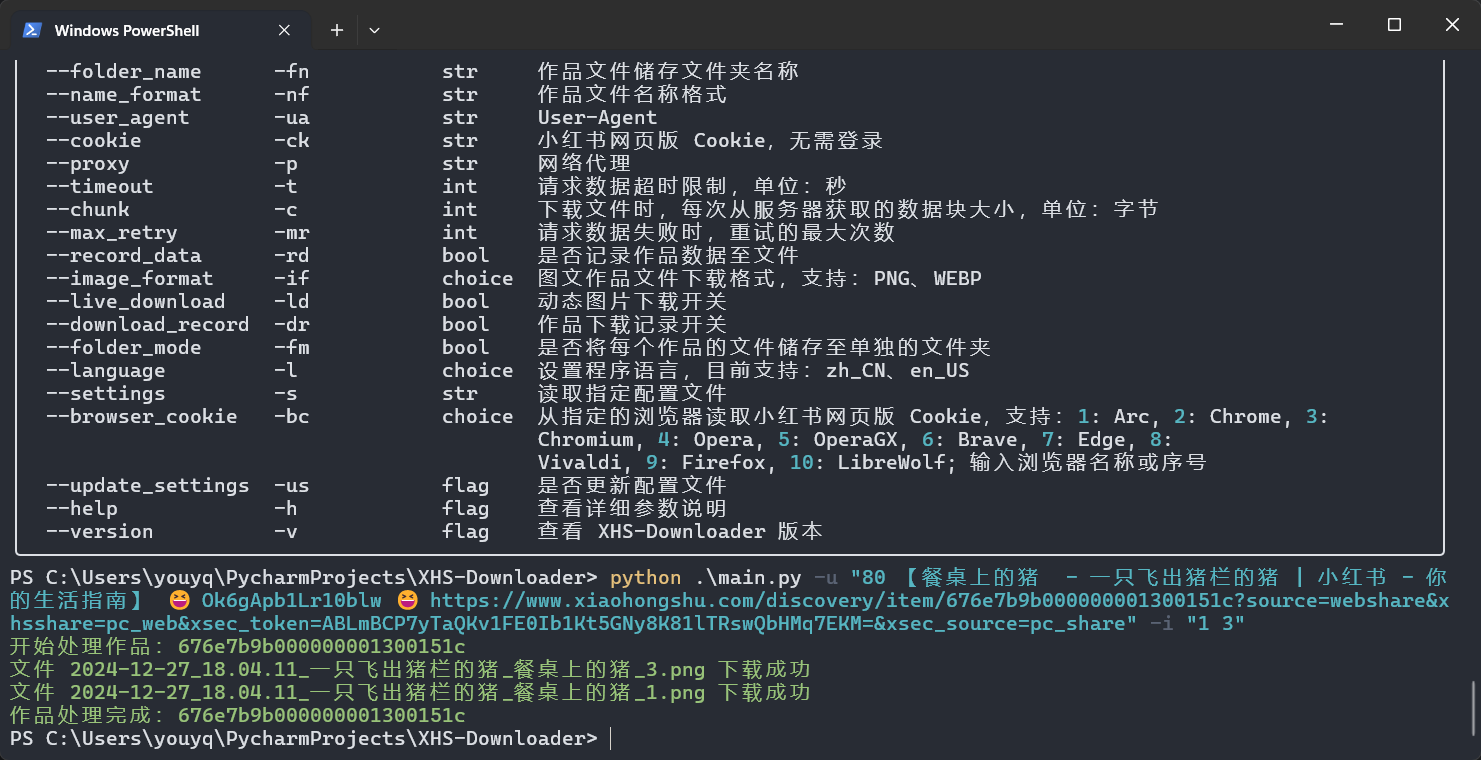
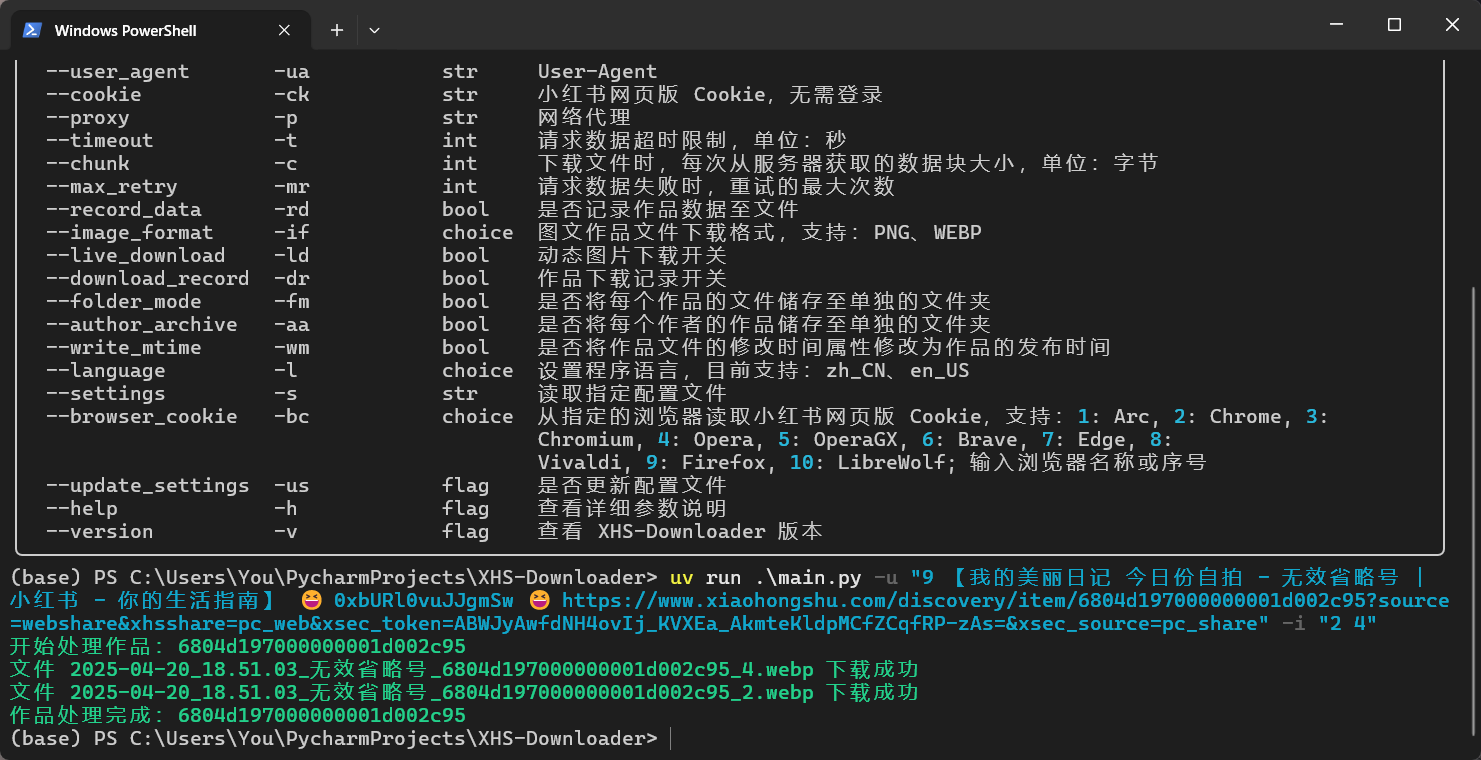
feat: 发布 2.5 版本

diff --git a/source/CLI/main.py b/source/CLI/main.py
@@ -136,8 +136,6 @@ class CLI:
             ("--work_path", "-wp", "str", _("作品数据 / 文件保存根路径")),
             ("--folder_name", "-fn", "str", _("作品文件储存文件夹名称")),
             ("--name_format", "-nf", "str", _("作品文件名称格式")),
-            # ("--sec_ch_ua", "-su", "str", _("Sec-Ch-Ua")),
-            # ("--sec_ch_ua_platform", "-sp", "str", _("Sec-Ch-Ua-Platform")),
             ("--user_agent", "-ua", "str", "User-Agent"),
             ("--cookie", "-ck", "str", _("小红书网页版 Cookie，无需登录")),
             ("--proxy", "-p", "str", _("网络代理")),
@@ -171,6 +169,15 @@ class CLI:
                 "-aa",
                 "bool",
                 _("是否将每个作者的作品储存至单独的文件夹"),
+            ),
+            (
+                "--write_mtime",
+                "-wm",
+                "bool",
+                fill(
+                    _("是否将作品文件的修改时间属性修改为作品的发布时间"),
+                    width=55,
+                ),
             ),
             ("--language", "-l", "choice", _("设置程序语言，目前支持：zh_CN、en_US")),
             ("--settings", "-s", "str", _("读取指定配置文件")),
@@ -288,6 +295,11 @@ class CLI:
 @option(
     "--author_archive",
     "-aa",
+    type=bool,
+)
+@option(
+    "--write_mtime",
+    "-wm",
     type=bool,
 )
 @option(

diff --git a/source/application/app.py b/source/application/app.py
@@ -203,6 +203,7 @@ class XHS:
         data["采集时间"] = datetime.now().strftime("%Y-%m-%d %H:%M:%S")
         data["下载地址"] = " ".join(data["下载地址"])
         data["动图地址"] = " ".join(i or "NaN" for i in data["动图地址"])
+        data.pop("时间戳", None)
         await self.data_recorder.add(**data)
 
     async def __add_record(self, id_: str, result: list) -> None:

diff --git a/README_EN.md b/README_EN.md
@@ -54,11 +54,11 @@
 <p>⭐ The development plan and progress of XHS-Downloader can be found at <a href="https://github.com/users/JoeanAmier/projects/5">Projects</a></p>
 <h1>📸 Program Screenshots</h1>
 <p><b>🎥 Click the images to watch the demo video</b></p>
-<a href="https://www.bilibili.com/video/BV1c56BYJEFm/"><img src="static/screenshot/程序运行截图EN1.png" alt=""></a>
+<a href="https://www.bilibili.com/video/BV1v1LwzsEi9/"><img src="static/screenshot/程序运行截图EN1.png" alt=""></a>
 <hr>
-<a href="https://www.bilibili.com/video/BV1c56BYJEFm/"><img src="static/screenshot/程序运行截图EN2.png" alt=""></a>
+<a href="https://www.bilibili.com/video/BV1v1LwzsEi9/"><img src="static/screenshot/程序运行截图EN2.png" alt=""></a>
 <hr>
-<a href="https://www.bilibili.com/video/BV1c56BYJEFm/"><img src="static/screenshot/程序运行截图EN3.png" alt=""></a>
+<a href="https://www.bilibili.com/video/BV1v1LwzsEi9/"><img src="static/screenshot/程序运行截图EN3.png" alt=""></a>
 <h1>🔗 Supported Links</h1>
 <ul>
 <li><code>https://www.xiaohongshu.com/explore/WorksID?xsec_token=XXX</code></li>

diff --git a/README.md b/README.md
@@ -53,11 +53,11 @@
 <p>⭐ XHS-Downloader 开发计划及进度可前往 <a href="https://github.com/users/JoeanAmier/projects/5">Projects</a> 查阅</p>
 <h1>📸 程序截图</h1>
 <p><b>🎥 点击图片观看演示视频</b></p>
-<a href="https://www.bilibili.com/video/BV1c56BYJEFm/"><img src="static/screenshot/程序运行截图CN1.png" alt=""></a>
+<a href="https://www.bilibili.com/video/BV1v1LwzsEi9/"><img src="static/screenshot/程序运行截图CN1.png" alt=""></a>
 <hr>
-<a href="https://www.bilibili.com/video/BV1c56BYJEFm/"><img src="static/screenshot/程序运行截图CN2.png" alt=""></a>
+<a href="https://www.bilibili.com/video/BV1v1LwzsEi9/"><img src="static/screenshot/程序运行截图CN2.png" alt=""></a>
 <hr>
-<a href="https://www.bilibili.com/video/BV1c56BYJEFm/"><img src="static/screenshot/程序运行截图CN3.png" alt=""></a>
+<a href="https://www.bilibili.com/video/BV1v1LwzsEi9/"><img src="static/screenshot/程序运行截图CN3.png" alt=""></a>
 <h1>🔗 支持链接</h1>
 <ul>
 <li><code>https://www.xiaohongshu.com/explore/作品ID?xsec_token=XXX</code></li>
